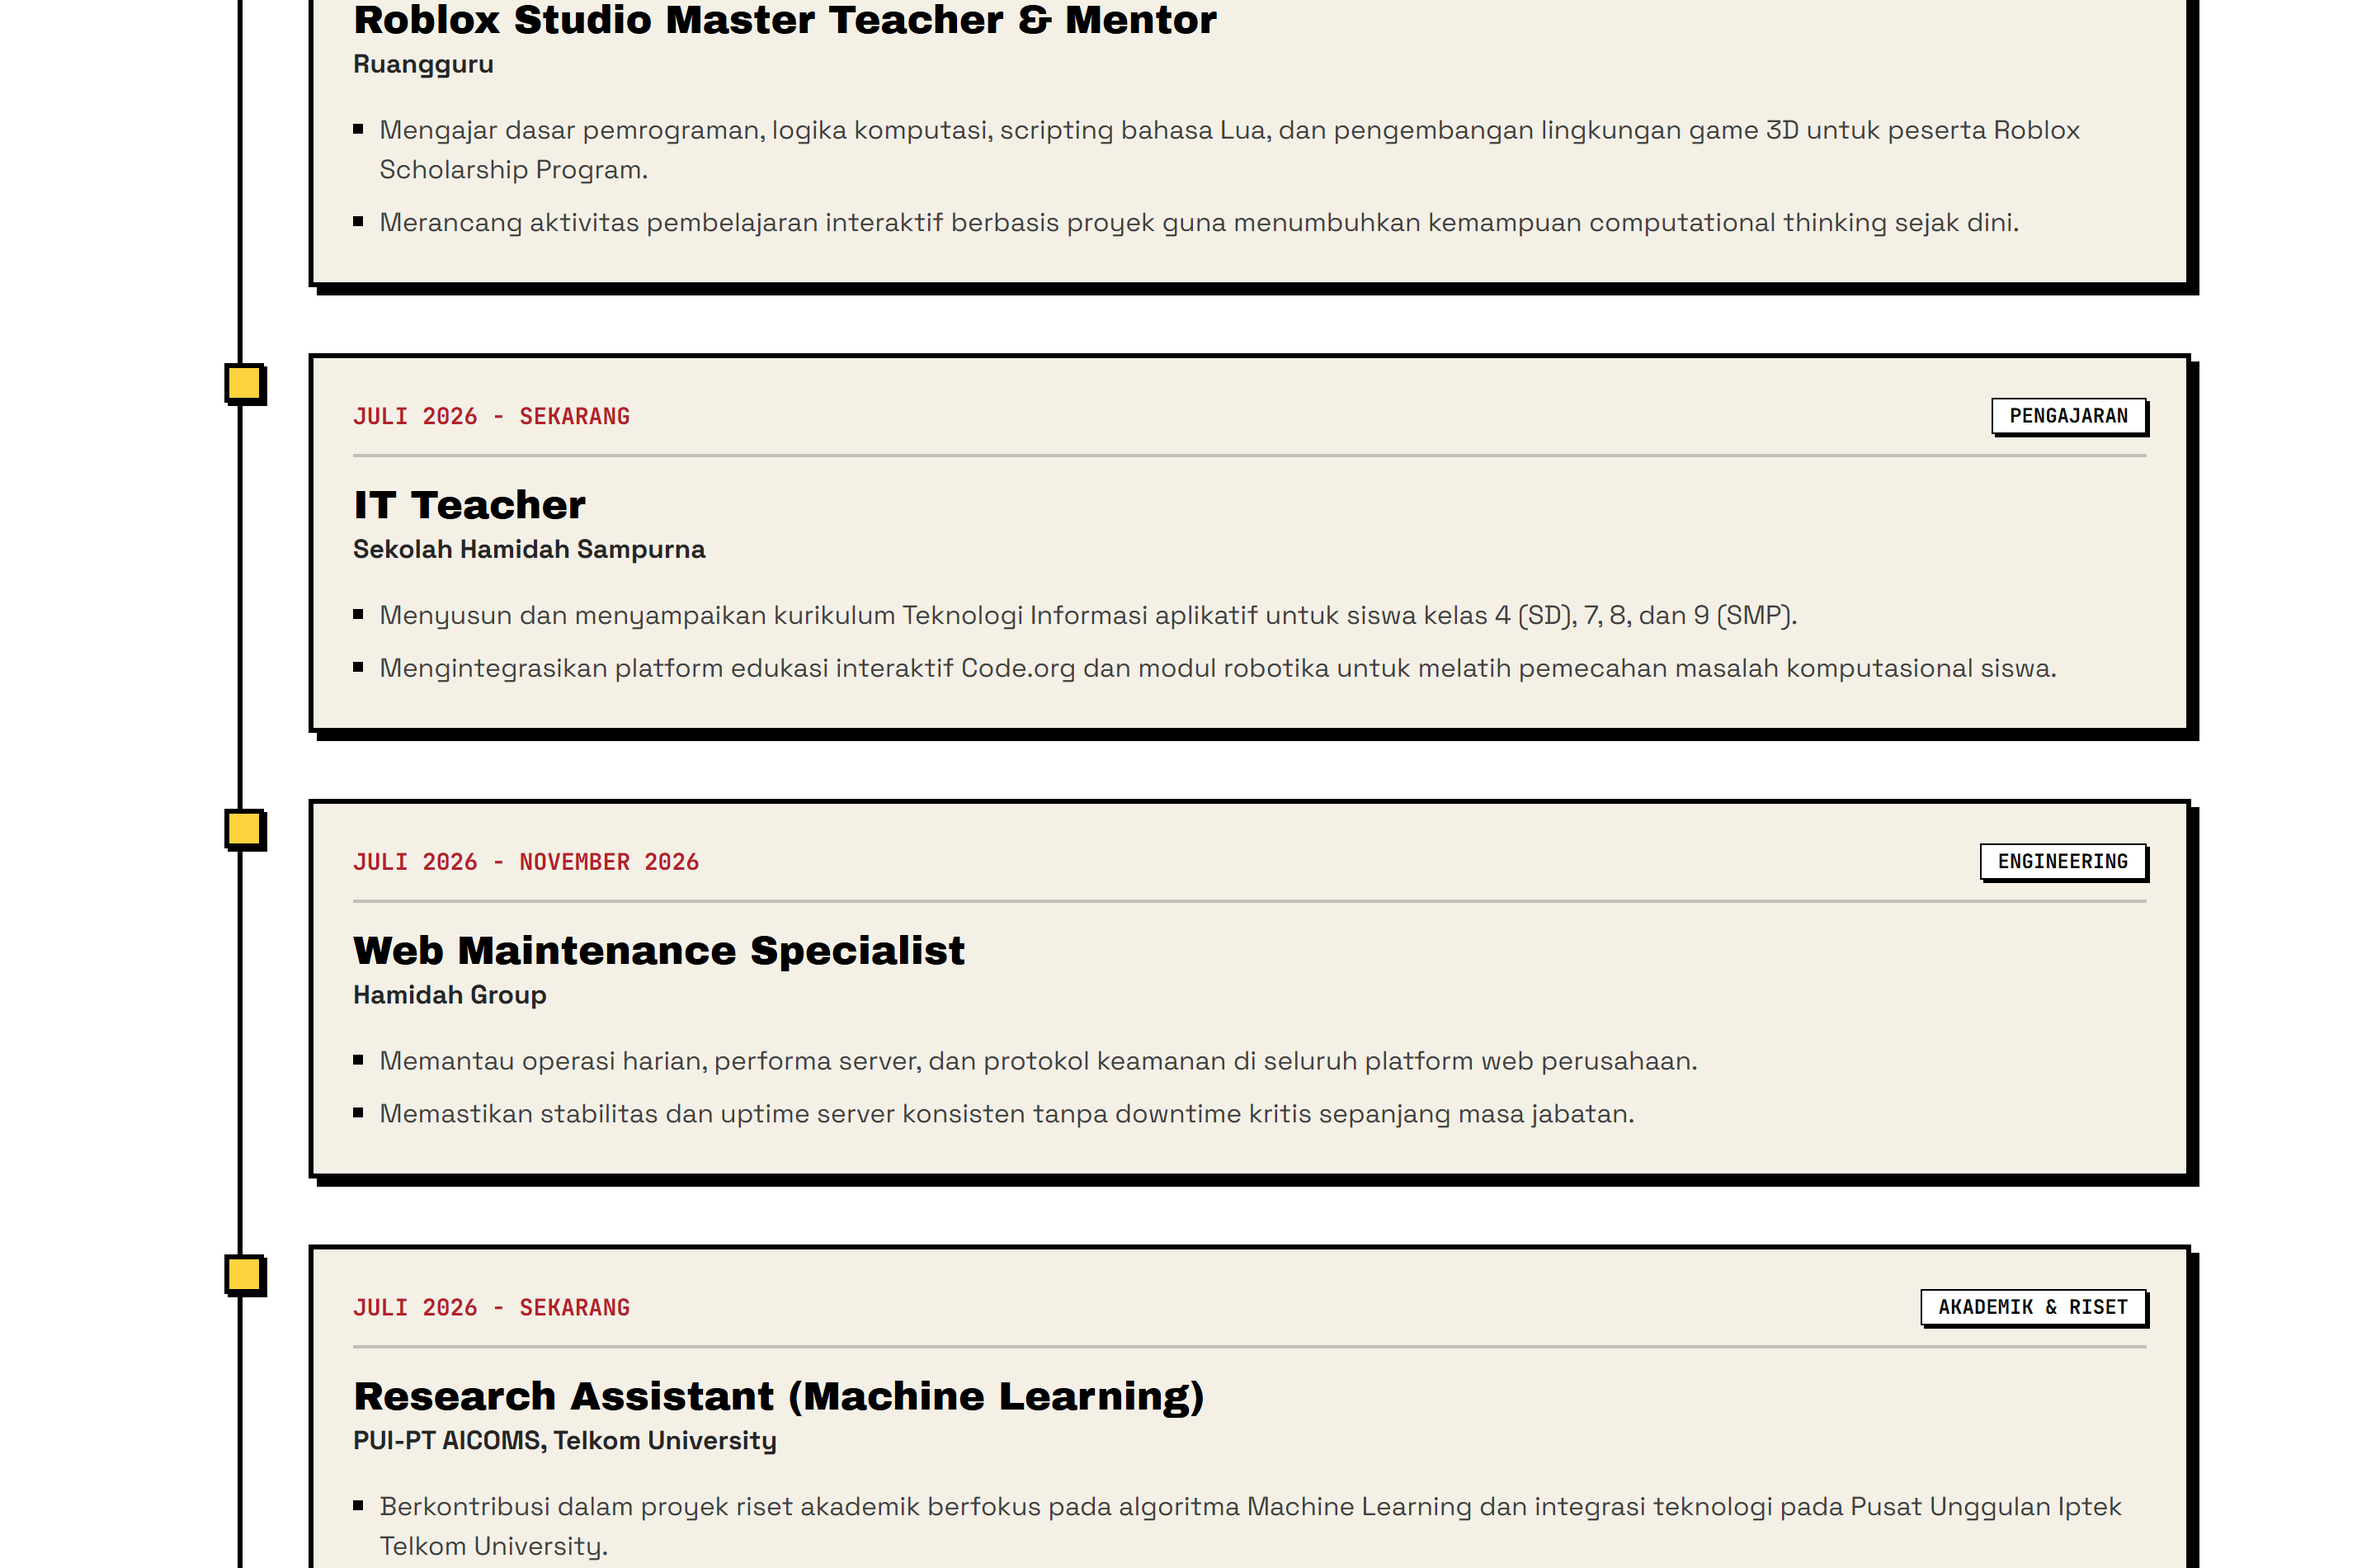
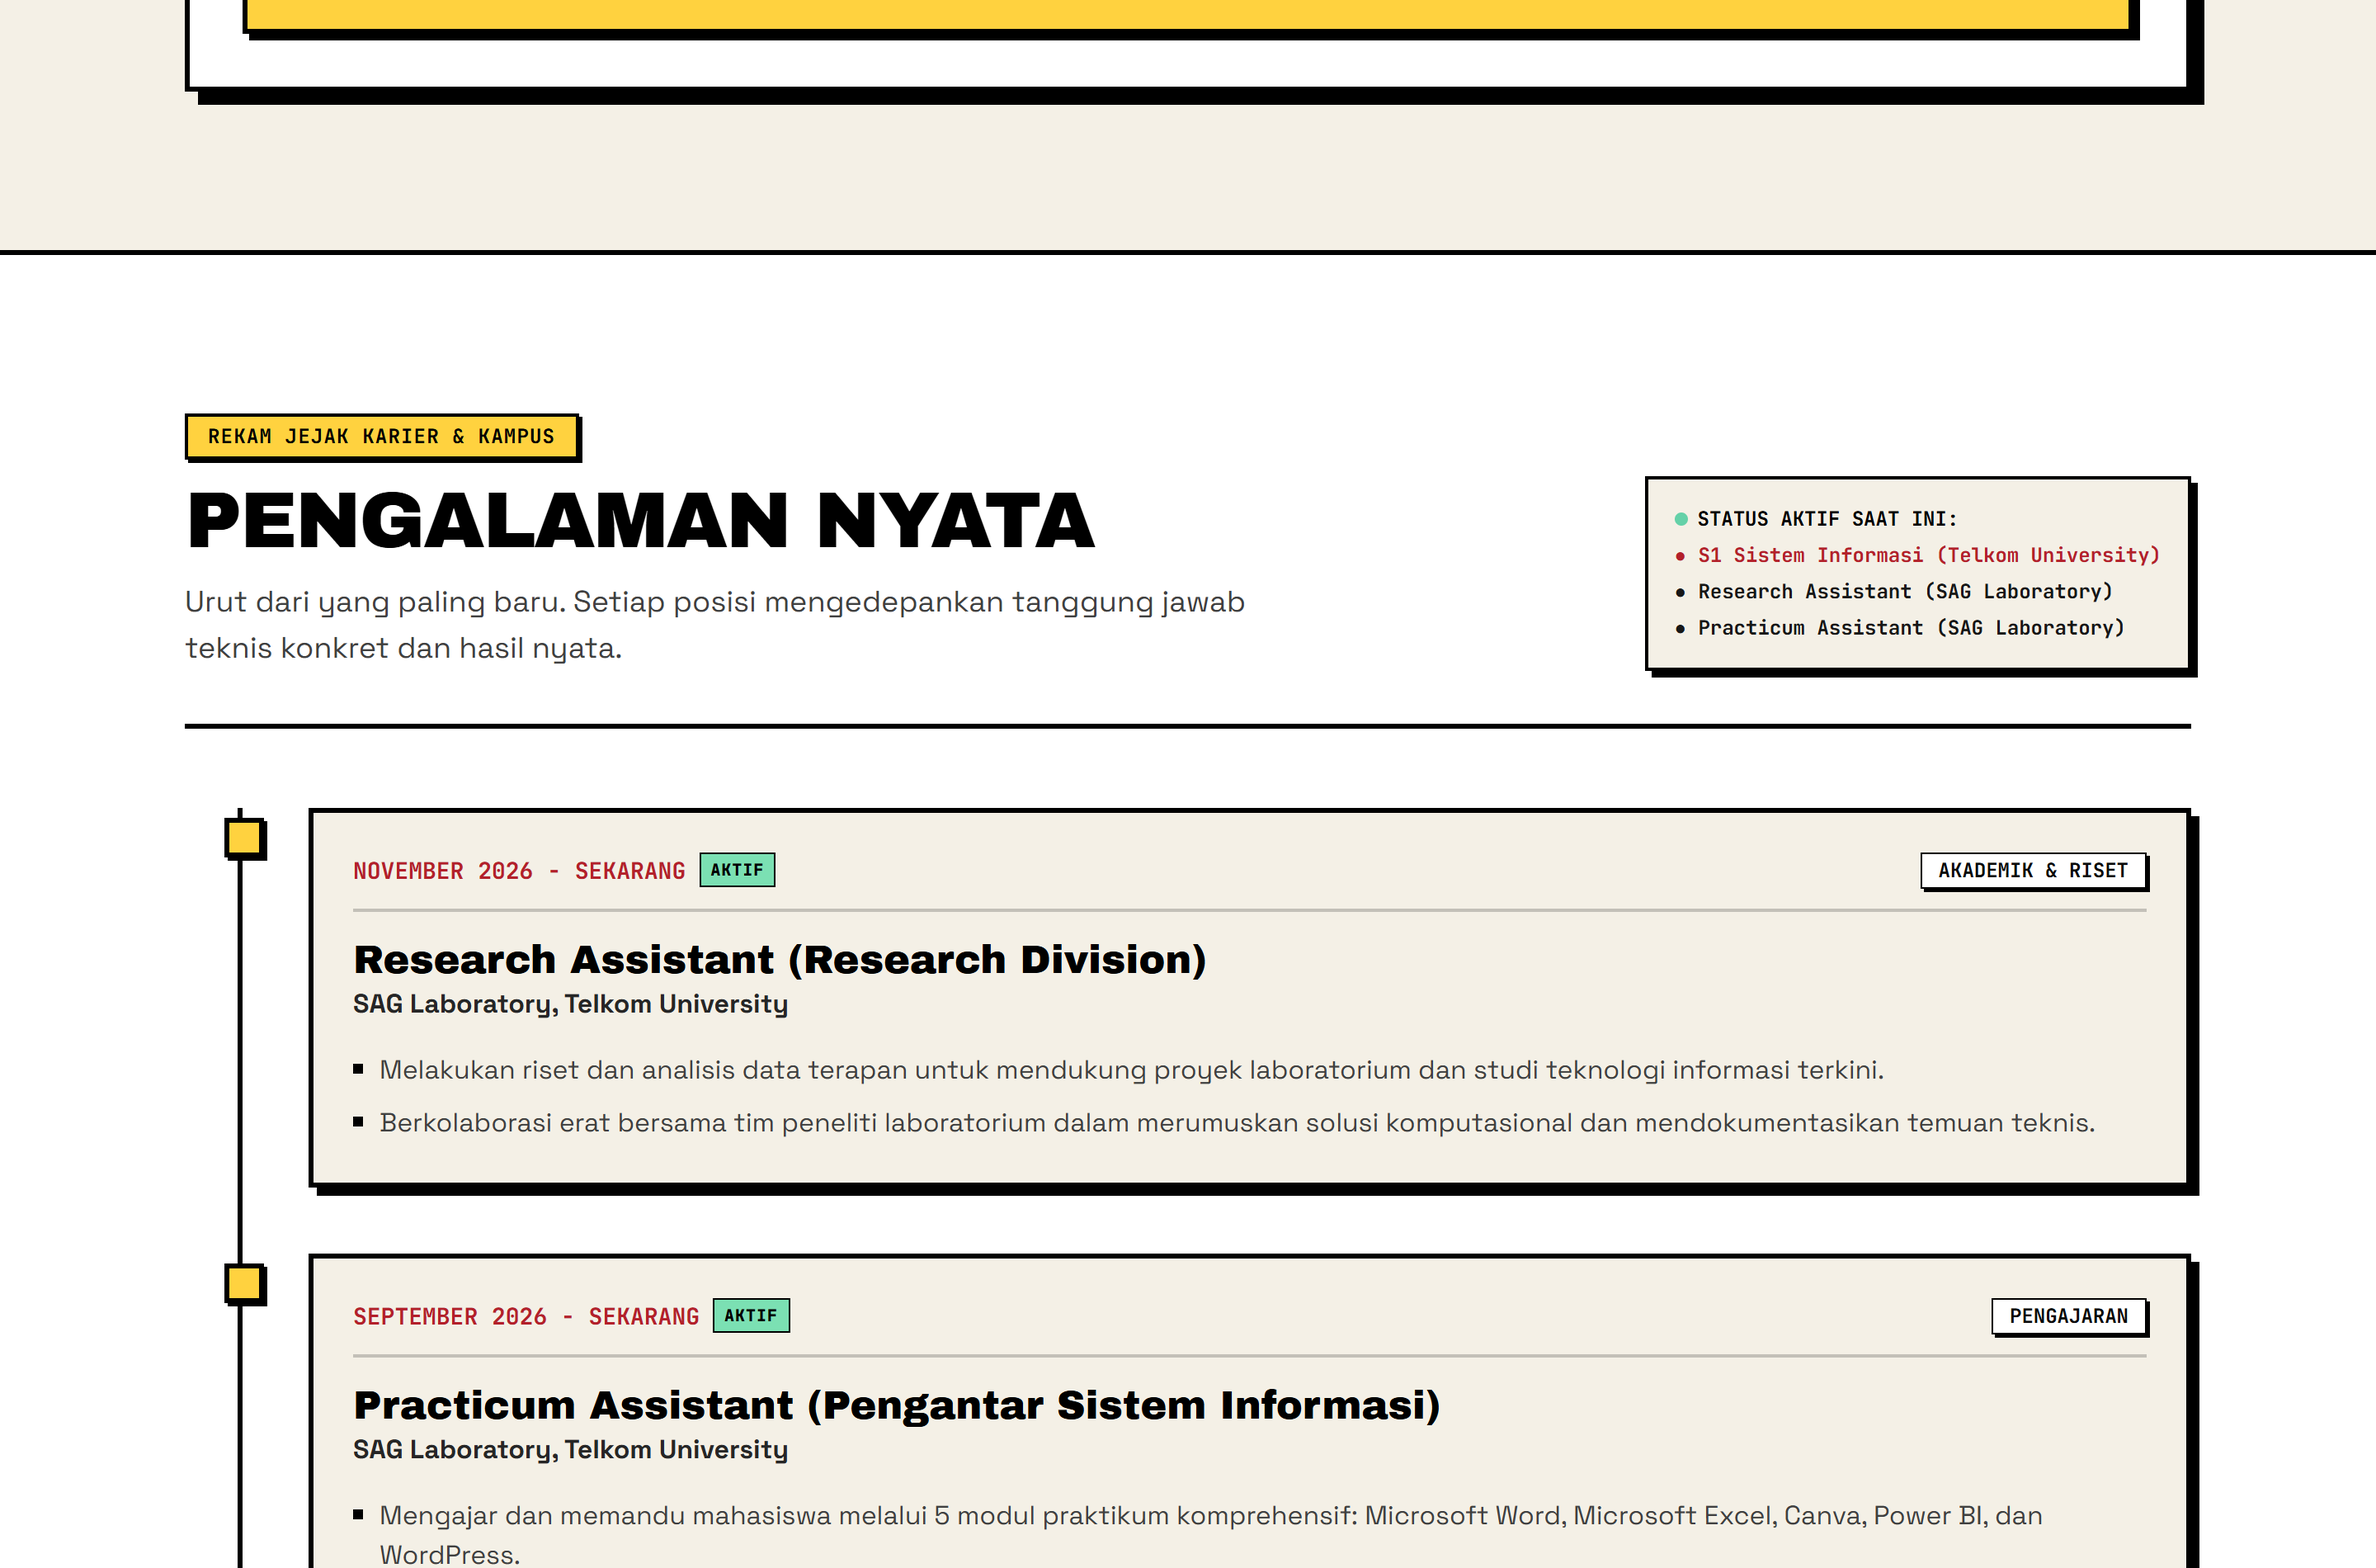
fix(experience): update current active status to SAG Lab Research & Practicum Assistant and mark Ruangguru, Hamidah, AICOMS as completed

diff --git a/src/data/content.ts b/src/data/content.ts
@@ -246,7 +246,7 @@ export const siteContent = {
       badgeColor: '#FFD23F',
     },
     {
-      period: 'Agustus 2026 - Sekarang',
+      period: 'Agustus 2026 - Oktober 2026',
       title: 'Roblox Studio Master Teacher & Mentor',
       organization: 'Ruangguru',
       category: 'Pengajaran',
@@ -257,7 +257,7 @@ export const siteContent = {
       badgeColor: '#FFD23F',
     },
     {
-      period: 'Juli 2026 - Sekarang',
+      period: 'Juli 2026 - Oktober 2026',
       title: 'IT Teacher',
       organization: 'Sekolah Hamidah Sampurna',
       category: 'Pengajaran',
@@ -279,7 +279,7 @@ export const siteContent = {
       badgeColor: '#B3202A',
     },
     {
-      period: 'Juli 2026 - Sekarang',
+      period: 'Juli 2026 - Oktober 2026',
       title: 'Research Assistant (Machine Learning)',
       organization: 'PUI-PT AICOMS, Telkom University',
       category: 'Akademik & Riset',
@@ -314,17 +314,17 @@ export const siteContent = {
 
   teachingAndResearch: [
     {
-      title: 'Asisten Praktikum (5 Modul Komprehensif)',
+      title: 'Asisten Riset & Praktikum (5 Modul)',
       institution: 'SAG Laboratory — Telkom University',
-      period: 'Sep 2026 - Sekarang',
-      description: 'Membimbing mahasiswa S1 Sistem Informasi dari penguasaan dokumentasi perkantoran hingga visualisasi data tingkat lanjut (Power BI) dan pembuatan website (WordPress). Berfokus pada pemahaman logika praktis, bukan hafalan antarmuka.',
-      stats: '5 Modul Lab (Word, Excel, Canva, Power BI, WordPress)',
-      tags: ['Power BI', 'Excel', 'WordPress', 'Mentoring Mahasiswa'],
+      period: 'Sep 2026 - Sekarang (Aktif)',
+      description: 'Aktif membimbing mahasiswa S1 Sistem Informasi di 5 modul praktikum inti (Word, Excel, Canva, Power BI, WordPress) serta menjalankan riset terapan di Research Division SAG Lab. Berfokus pada logika praktis dan pemecahan masalah komputasional.',
+      stats: 'Research Division & 5 Modul Praktikum Lab',
+      tags: ['Research Division', 'Power BI', 'Excel', 'WordPress', 'Mentoring Mahasiswa'],
     },
     {
       title: 'Master Teacher Roblox Studio & Lua Scripting',
       institution: 'Ruangguru (Roblox Scholarship Program)',
-      period: 'Agt 2026 - Sekarang',
+      period: 'Agt 2026 - Okt 2026 (Selesai)',
       description: 'Mengampu beasiswa resmi untuk talenta muda. Mentransformasi antusiasme bermain game menjadi pemahaman arsitektur software: variabel, loop, event-driven programming, dan spatial 3D reasoning dengan bahasa Lua.',
       stats: 'Sertifikasi Resmi Ruangguru & Roblox',
       tags: ['Lua Scripting', 'Game Development 3D', 'STEM Education', 'Algoritma'],
@@ -332,7 +332,7 @@ export const siteContent = {
     {
       title: 'Kurikulum IT Lintas Jenjang (SD & SMP)',
       institution: 'Sekolah Hamidah Sampurna',
-      period: 'Jul 2026 - Sekarang',
+      period: 'Jul 2026 - Okt 2026 (Selesai)',
       description: 'Merancang kurikulum teknologi yang berjenjang: dari computational thinking dasar kelas 4 SD menggunakan Code.org hingga logika robotika dan internet sehat untuk kelas 7, 8, dan 9 SMP.',
       stats: '4 Jenjang Kelas (Kelas 4, 7, 8, dan 9)',
       tags: ['Code.org', 'Robotika', 'Digital Literacy', 'Desain Kurikulum'],
@@ -340,7 +340,7 @@ export const siteContent = {
     {
       title: 'Riset Machine Learning Terapan',
       institution: 'PUI-PT AICOMS (Pusat Unggulan Iptek Telkom University)',
-      period: 'Jul 2026 - Sekarang',
+      period: 'Jul 2026 - Okt 2026 (Selesai)',
       description: 'Meneliti implementasi algoritma Machine Learning terapan bersama tim periset Center of Excellence, menghubungkan pemodelan data teoritis dengan kebutuhan analitik sistem nyata.',
       stats: 'Riset Akademik & Center of Excellence',
       tags: ['Machine Learning', 'Python', 'Algoritma Data', 'Data Science'],
@@ -513,7 +513,7 @@ export const siteContent = {
       degree: 'S1 Sistem Informasi (Bachelor of Science in Information Systems)',
       period: '2025 - Sekarang',
       status: 'Mahasiswa Aktif',
-      note: 'Fokus pada Rekayasa Perangkat Lunak, Tata Kelola Sistem, dan Business Intelligence. Aktif sebagai Asisten Riset di AICOMS dan Asisten Praktikum di SAG Lab.',
+      note: 'Fokus pada Rekayasa Perangkat Lunak, Tata Kelola Sistem, dan Business Intelligence. Aktif sebagai Research Assistant dan Practicum Assistant di SAG Laboratory.',
     },
     {
       institution: 'Pondok Tahfidz Sulaimaniyah',
